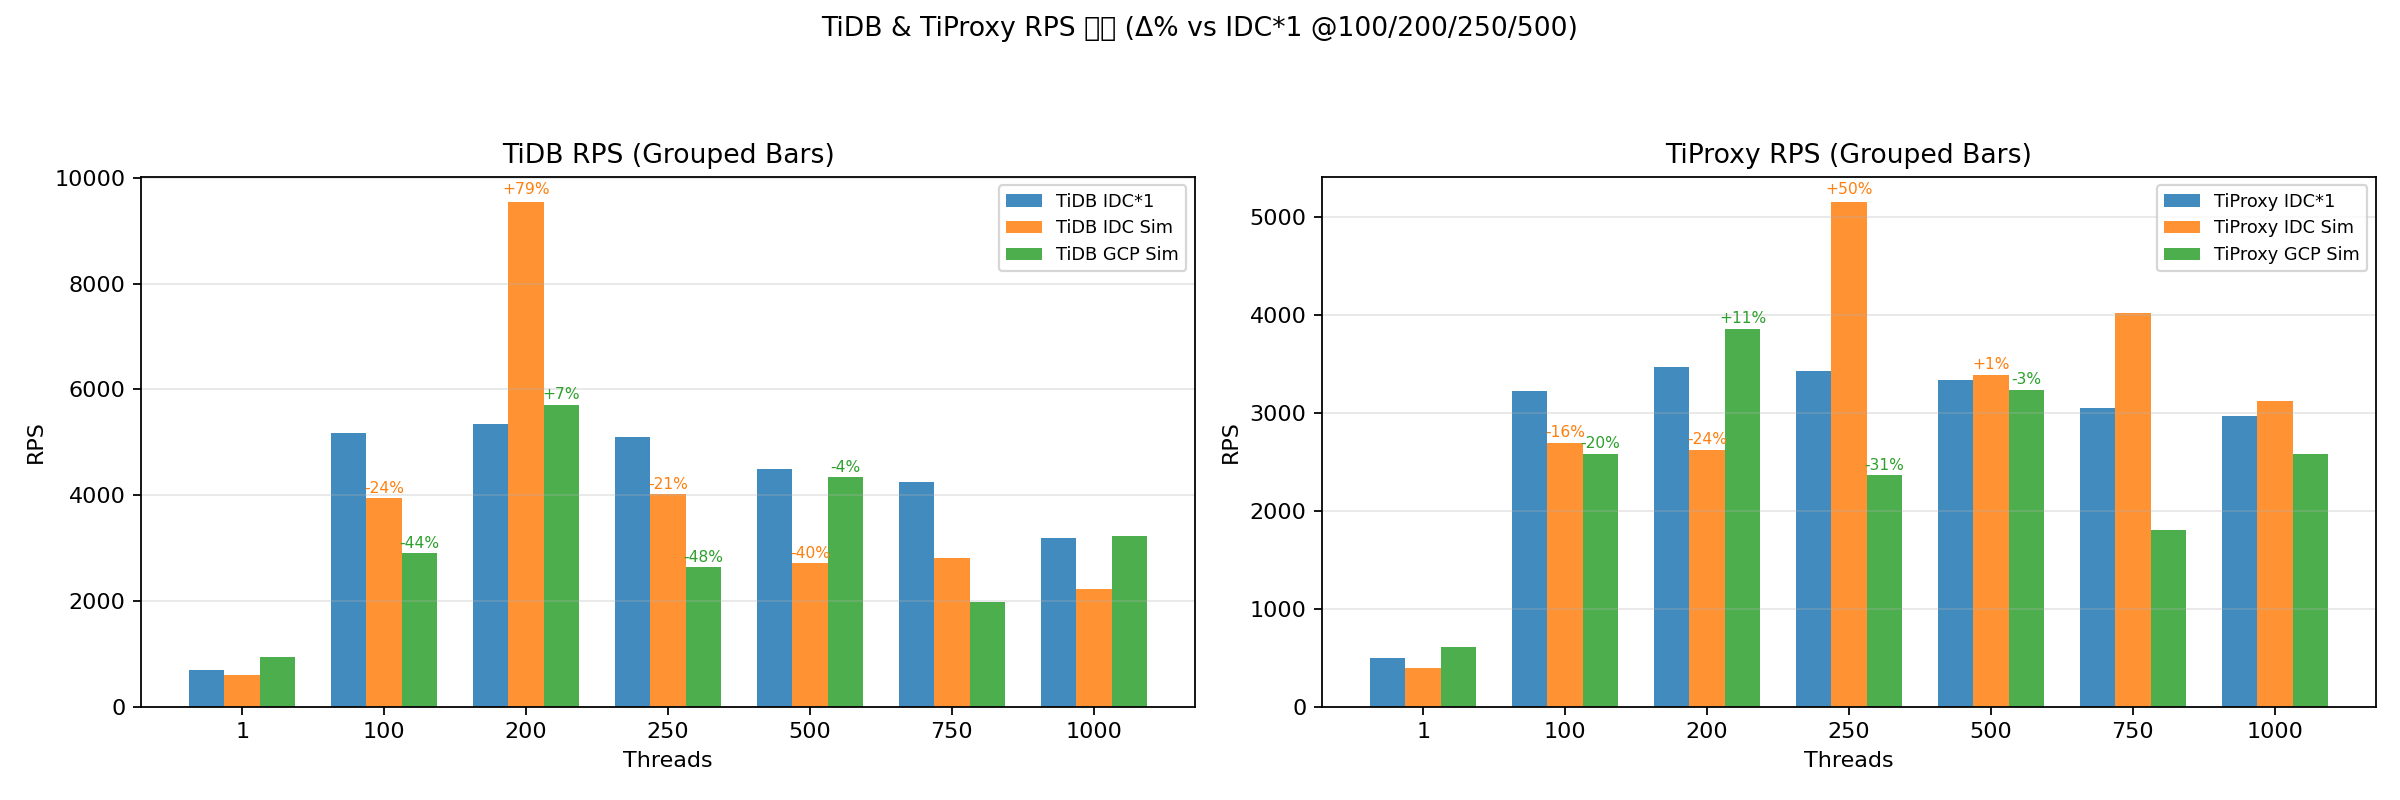
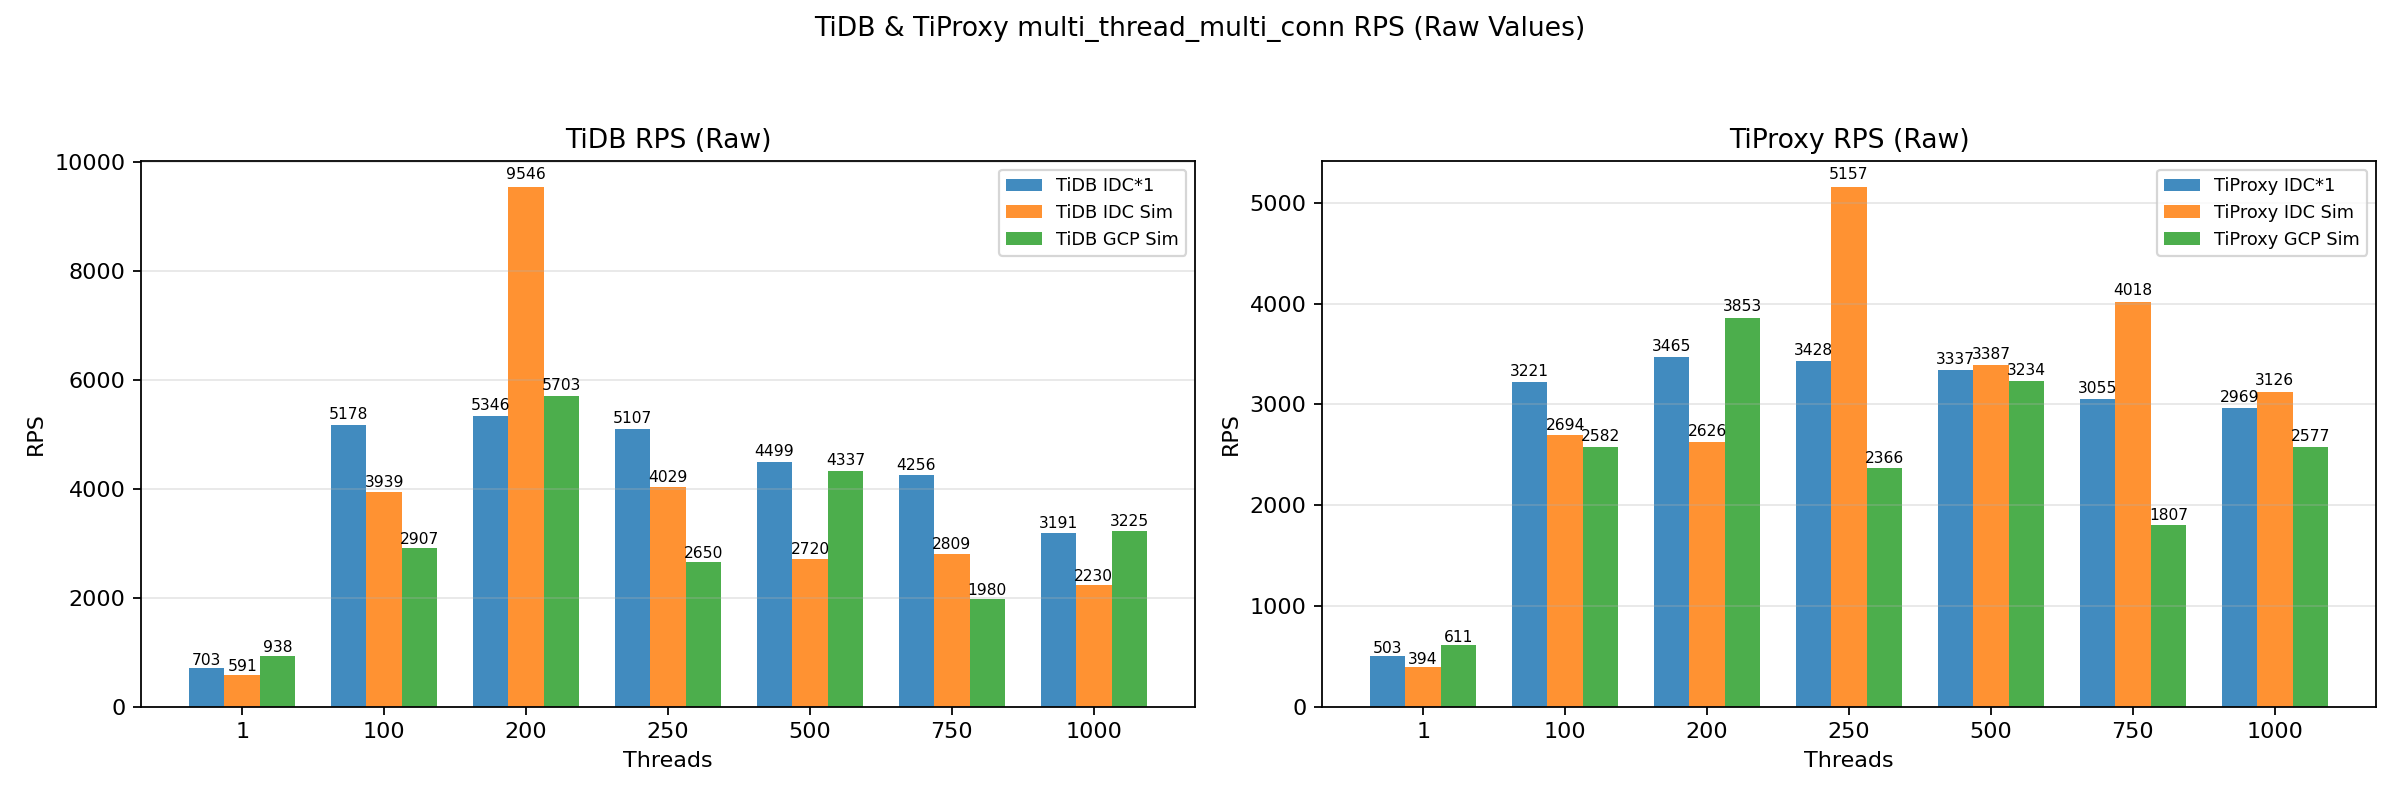
update

diff --git a/tidb/#3-1_#9-5_#9-7_#3-2_#9-6_#9-8_scale_compare.py b/tidb/#3-1_#9-5_#9-7_#3-2_#9-6_#9-8_scale_compare.py
@@ -1,292 +1,80 @@
 #!/usr/bin/env python3
 """
-Composite scale / dedicated-line impact comparison.
+RPS scale comparison (raw values only, no percentage annotations)
 
-Scenarios (multi_thread_multi_conn only):
-  TiDB:
-    - IDC *1 baseline              (#3-1.py)
-    - IDC Simultaneous (w/ GCP?)   (#9-5.py)
-    - GCP Simultaneous             (#9-7.py)
-  TiProxy:
-    - IDC *1 baseline              (#3-2.py)
-    - IDC Simultaneous (w/ GCP?)   (#9-6.py)
-    - GCP Simultaneous             (#9-8.py)
+Datasets (multi_thread_multi_conn):
+  TiDB   : #3-1 (IDC*1 baseline), #9-5 (IDC simultaneous), #9-7 (GCP simultaneous)
+  TiProxy: #3-2 (IDC*1 baseline), #9-6 (IDC simultaneous), #9-8 (GCP simultaneous)
 
-Goal: Show effect of simultaneous cross-site execution / dedicated line (專線) on scaling vs baseline
-      and highlight super-linear zones, regressions, and stability windows.
-
-Output (only RPS diff as requested):
-    - #3-1_#9-5_#9-7_#3-2_#9-6_#9-8_scale_compare.png (TiDB & TiProxy RPS vs Threads + Δ% vs IDC*1)
-
-Notes:
-  * Percent deltas computed versus IDC *1 baseline for each layer separately (#3-1 TiDB, #3-2 TiProxy).
-  * "Super-linear" flagged when efficiency (req/sec/thread) exceeds baseline 100-thread efficiency by >10%.
-  * Dedicated line impact (專線影響) summarized as avg % delta (100..500 threads) for Simultaneous vs baseline.
+Output: #3-1_#9-5_#9-7_#3-2_#9-6_#9-8_scale_compare.png
 """
 from __future__ import annotations
 
-from dataclasses import dataclass
-from typing import Dict, List, Tuple
-import math
+import math  # kept in case of later extensions
 
 try:
     import matplotlib.pyplot as plt
 except Exception:  # pragma: no cover
     plt = None
 
-
-# ===================== Raw Datasets (threads, rps, avg_ms, total_time_s) =====================
-
-TIDB_IDC1 = [
-    (1, 703.02, 1.421, 14.224),
-    (100, 5178.16, 17.830, 1.931),
-    (200, 5346.08, 33.044, 1.871),
-    (250, 5107.33, 42.019, 1.958),
-    (500, 4499.16, 86.555, 2.223),
-    (750, 4255.60, 105.778, 2.350),
-    (1000, 3190.80, 142.418, 3.134),
-]
-TIDB_IDC_SIM = [  # #9-5 (IDC Simultaneous Execution)
-    (1, 591.14, 1.690, 16.916),
-    (100, 3938.95, 22.355, 2.539),
-    (200, 9545.70, 13.684, 1.048),
-    (250, 4028.54, 44.783, 2.482),
-    (500, 2719.85, 15.610, 3.677),
-    (750, 2809.31, 21.924, 3.560),
-    (1000, 2229.57, 14.623, 4.485),
-]
-TIDB_GCP_SIM = [  # #9-7 (GCP Simultaneous Execution)
-    (1, 938.11, 1.065, 10.660),
-    (100, 2907.39, 31.817, 3.440),
-    (200, 5703.00, 27.169, 1.753),
-    (250, 2650.38, 78.617, 3.773),
-    (500, 4337.12, 66.139, 2.306),
-    (750, 1980.50, 25.645, 5.049),
-    (1000, 3224.52, 12.123, 3.101),
-]
-
-TIPROXY_IDC1 = [
-    (1, 502.62, 1.988, 19.896),
-    (100, 3220.79, 29.485, 3.105),
-    (200, 3465.21, 52.583, 2.886),
-    (250, 3428.05, 66.397, 2.917),
-    (500, 3337.43, 126.219, 2.996),
-    (750, 3054.79, 192.192, 3.274),
-    (1000, 2968.66, 238.522, 3.369),
-]
-TIPROXY_IDC_SIM = [  # #9-6
-    (1, 394.48, 2.534, 25.350),
-    (100, 2693.88, 15.416, 3.712),
-    (200, 2626.27, 41.133, 3.808),
-    (250, 5156.92, 33.316, 1.939),
-    (500, 3387.40, 94.211, 2.952),
-    (750, 4017.87, 95.852, 2.489),
-    (1000, 3126.35, 32.013, 3.199),
-]
-TIPROXY_GCP_SIM = [  # #9-8
-    (1, 610.76, 1.636, 16.373),
-    (100, 2581.78, 35.659, 3.873),
-    (200, 3853.03, 44.524, 2.595),
-    (250, 2365.68, 88.958, 4.227),
-    (500, 3233.98, 110.136, 3.092),
-    (750, 1807.05, 293.526, 5.534),
-    (1000, 2577.48, 198.886, 3.880),
-]
-
-
-@dataclass
-class Scenario:
-    name: str
-    label: str
-    data: List[Tuple[int, float, float, float]]  # (threads, rps, avg_ms, total_time_s)
-
-    def to_maps(self) -> Tuple[Dict[int, float], Dict[int, float]]:
-        rps_map = {t: rps for t, rps, *_ in self.data}
-        lat_map = {t: ms for t, _, ms, _ in self.data}
-        return rps_map, lat_map
-
-    def efficiency_map(self) -> Dict[int, float]:
-        return {t: (rps / t if t else float('nan')) for t, rps, *_ in self.data}
-
-
-TIDB_SCENARIOS = [
-    Scenario('IDC1', 'TiDB IDC*1', TIDB_IDC1),
-    Scenario('IDC_SIM', 'TiDB IDC Sim', TIDB_IDC_SIM),
-    Scenario('GCP_SIM', 'TiDB GCP Sim', TIDB_GCP_SIM),
-]
-TIPROXY_SCENARIOS = [
-    Scenario('IDC1', 'TiProxy IDC*1', TIPROXY_IDC1),
-    Scenario('IDC_SIM', 'TiProxy IDC Sim', TIPROXY_IDC_SIM),
-    Scenario('GCP_SIM', 'TiProxy GCP Sim', TIPROXY_GCP_SIM),
-]
-
+# (threads, rps)
 THREADS = [1, 100, 200, 250, 500, 750, 1000]
 
+TIDB_IDC1 = {   1: 703.02, 100: 5178.16, 200: 5346.08, 250: 5107.33, 500: 4499.16, 750: 4255.60, 1000: 3190.80 }
+TIDB_IDC_SIM = {1: 591.14, 100: 3938.95, 200: 9545.70, 250: 4028.54, 500: 2719.85, 750: 2809.31, 1000: 2229.57 }
+TIDB_GCP_SIM = {1: 938.11, 100: 2907.39, 200: 5703.00, 250: 2650.38, 500: 4337.12, 750: 1980.50, 1000: 3224.52 }
 
-def pct(new: float, old: float) -> float:
-    if old == 0 or math.isclose(old, 0.0):
-        return 0.0
-    return (new / old - 1.0) * 100.0
-
-
-def build_delta_table(scenarios: List[Scenario]) -> str:
-    baseline = scenarios[0]
-    base_rps, _ = baseline.to_maps()
-    headers = ["Threads"] + [sc.label for sc in scenarios] + [f"Δ% vs {baseline.label} ({sc.label})" for sc in scenarios[1:]]
-    rows = []
-    for t in THREADS:
-        row = [t]
-        for sc in scenarios:
-            rps_map, _ = sc.to_maps()
-            row.append(rps_map.get(t, float('nan')))
-        for sc in scenarios[1:]:
-            rps_map, _ = sc.to_maps()
-            row.append(pct(rps_map.get(t, float('nan')), base_rps.get(t, float('nan'))))
-        rows.append(row)
-    # column widths
-    widths = []
-    for i, h in enumerate(headers):
-        max_len = max(len(h), *(len(f"{r[i]:.2f}") if isinstance(r[i], float) else len(str(r[i])) for r in rows))
-        widths.append(max_len)
-
-    def fmt(v, w):
-        if isinstance(v, float):
-            if math.isnan(v):
-                return 'NaN'.rjust(w)
-            return f"{v:.2f}".rjust(w)
-        return str(v).rjust(w)
-
-    lines = [" | ".join(h.ljust(widths[i]) for i, h in enumerate(headers)),
-             "-+-".join('-'*w for w in widths)]
-    for r in rows:
-        lines.append(" | ".join(fmt(r[i], widths[i]) for i in range(len(headers))))
-    return '\n'.join(lines)
-
-
-def super_linear_threads(scenario: Scenario, baseline_eff_100: float) -> List[int]:
-    eff_map = scenario.efficiency_map()
-    out = []
-    for t, eff in eff_map.items():
-        if t < 100:
-            continue
-        if eff > baseline_eff_100 * 1.10:  # >10% over baseline efficiency counts as super-linear
-            out.append(t)
-    return out
-
-
-def summarize_layer(name: str, scenarios: List[Scenario]) -> List[str]:
-    baseline = scenarios[0]
-    base_eff_100 = baseline.efficiency_map().get(100)
-    lines: List[str] = []
-    # Dedicated-line (simultaneous) impact average across mid concurrency (100..500)
-    mids = [100, 200, 250, 500]
-    base_rps_map, _ = baseline.to_maps()
-    for sc in scenarios[1:]:
-        rps_map, _ = sc.to_maps()
-        deltas = [pct(rps_map[t], base_rps_map[t]) for t in mids if t in base_rps_map and t in rps_map]
-        avg_mid = sum(deltas)/len(deltas)
-        lines.append(f"{sc.label}: 中段併發 (100~500T) 平均 RPS 變化 {avg_mid:+.1f}% vs {baseline.label}")
-        sl = super_linear_threads(sc, base_eff_100)
-        if sl:
-            lines.append(f"  超線性效率點 (效率 > baseline100 +10%): {', '.join(map(str, sl))} threads")
-    # Peaks & worst regressions
-    for sc in scenarios:
-        rps_map, _ = sc.to_maps()
-        peak_t = max(rps_map, key=lambda t: rps_map[t])
-        peak_v = rps_map[peak_t]
-        lines.append(f"{sc.label}: 峰值 {peak_v:.0f} RPS @ {peak_t}T")
-    # Identify worst negative delta for each non-baseline scenario
-    for sc in scenarios[1:]:
-        rps_map, _ = sc.to_maps()
-        worst_t = min(THREADS, key=lambda t: pct(rps_map[t], base_rps_map[t]))
-        lines.append(f"{sc.label}: 最差點 {worst_t}T (Δ {pct(rps_map[worst_t], base_rps_map[worst_t]):+.1f}%)")
-    return lines
-
+TIPROXY_IDC1 = {1: 502.62, 100: 3220.79, 200: 3465.21, 250: 3428.05, 500: 3337.43, 750: 3054.79, 1000: 2968.66 }
+TIPROXY_IDC_SIM = {1: 394.48, 100: 2693.88, 200: 2626.27, 250: 5156.92, 500: 3387.40, 750: 4017.87, 1000: 3126.35 }
+TIPROXY_GCP_SIM = {1: 610.76, 100: 2581.78, 200: 3853.03, 250: 2365.68, 500: 3233.98, 750: 1807.05, 1000: 2577.48 }
 
 OUTPUT_PNG = '#3-1_#9-5_#9-7_#3-2_#9-6_#9-8_scale_compare.png'
 
 
-def plot_rps():
+def plot():
     if not plt:  # pragma: no cover
-        print('[WARN] matplotlib not available; skip plot.')
-        return
+        print('[WARN] matplotlib not available; cannot create plot.')
+        return False
     fig, axes = plt.subplots(1, 2, figsize=(15, 5), sharey=False)
-    key_threads = [100, 200, 250, 500]
-    # --- TiDB BAR CHART ---
-    ax = axes[0]
-    colors = ['#1f77b4', '#ff7f0e', '#2ca02c']
-    width = 0.25
-    x_pos = range(len(THREADS))
-    base_rps_map, _ = TIDB_SCENARIOS[0].to_maps()
-    for idx, sc in enumerate(TIDB_SCENARIOS):
-        rps_map, _ = sc.to_maps()
-        offsets = [i + (idx-1)*width for i in x_pos]
-        bars = ax.bar(offsets, [rps_map[t] for t in THREADS], width, label=sc.label, color=colors[idx], alpha=0.85)
-        # annotate delta vs baseline for non-baseline
-        if idx > 0:
-            for b, t in zip(bars, THREADS):
-                d = pct(rps_map[t], base_rps_map[t])
-                if t in key_threads:
-                    ax.text(b.get_x()+b.get_width()/2, b.get_height()*1.01, f'{d:+.0f}%', ha='center', va='bottom', fontsize=7, color=colors[idx])
-    ax.set_xticks([i for i in x_pos], THREADS)
-    ax.set_xlabel('Threads')
-    ax.set_ylabel('RPS')
-    ax.set_title('TiDB RPS (Grouped Bars)')
-    ax.grid(axis='y', alpha=0.3)
-    ax.legend(fontsize=8)
-    # --- TiProxy BAR CHART ---
-    axp = axes[1]
-    base_rps_map_p, _ = TIPROXY_SCENARIOS[0].to_maps()
-    for idx, sc in enumerate(TIPROXY_SCENARIOS):
-        rps_map, _ = sc.to_maps()
-        offsets = [i + (idx-1)*width for i in x_pos]
-        bars = axp.bar(offsets, [rps_map[t] for t in THREADS], width, label=sc.label, color=colors[idx], alpha=0.85)
-        if idx > 0:
-            for b, t in zip(bars, THREADS):
-                d = pct(rps_map[t], base_rps_map_p[t])
-                if t in key_threads:
-                    axp.text(b.get_x()+b.get_width()/2, b.get_height()*1.01, f'{d:+.0f}%', ha='center', va='bottom', fontsize=7, color=colors[idx])
-    axp.set_xticks([i for i in x_pos], THREADS)
-    axp.set_xlabel('Threads')
-    axp.set_ylabel('RPS')
-    axp.set_title('TiProxy RPS (Grouped Bars)')
-    axp.grid(axis='y', alpha=0.3)
-    axp.legend(fontsize=8)
-    fig.suptitle('TiDB & TiProxy RPS 比較 (Δ% vs IDC*1 @100/200/250/500)')
-    fig.tight_layout(rect=[0,0,1,0.92])
+
+    def grouped(ax, datasets, title):
+        bar_w = 0.25
+        x_idx = list(range(len(THREADS)))
+        colors = ['#1f77b4', '#ff7f0e', '#2ca02c']
+        for i, (label, data, color) in enumerate(datasets):
+            offs = [x + (i-1)*bar_w for x in x_idx]
+            vals = [data[t] for t in THREADS]
+            bars = ax.bar(offs, vals, width=bar_w, label=label, color=color, alpha=0.85)
+            for b, v in zip(bars, vals):
+                ax.text(b.get_x()+b.get_width()/2, v*1.01, f'{int(round(v))}', ha='center', va='bottom', fontsize=7)
+        ax.set_xticks(x_idx, THREADS)
+        ax.set_xlabel('Threads')
+        ax.set_ylabel('RPS')
+        ax.set_title(title)
+        ax.grid(axis='y', alpha=0.3)
+        ax.legend(fontsize=8)
+
+    grouped(axes[0], [
+        ('TiDB IDC*1', TIDB_IDC1, '#1f77b4'),
+        ('TiDB IDC Sim', TIDB_IDC_SIM, '#ff7f0e'),
+        ('TiDB GCP Sim', TIDB_GCP_SIM, '#2ca02c'),
+    ], 'TiDB RPS (Raw)')
+
+    grouped(axes[1], [
+        ('TiProxy IDC*1', TIPROXY_IDC1, '#1f77b4'),
+        ('TiProxy IDC Sim', TIPROXY_IDC_SIM, '#ff7f0e'),
+        ('TiProxy GCP Sim', TIPROXY_GCP_SIM, '#2ca02c'),
+    ], 'TiProxy RPS (Raw)')
+
+    fig.suptitle('TiDB & TiProxy multi_thread_multi_conn RPS (Raw Values)')
+    fig.tight_layout(rect=[0,0,1,0.94])
     fig.savefig(OUTPUT_PNG, dpi=160)
     print(f'[OK] Saved {OUTPUT_PNG}')
-
-
-## Removed latency & efficiency plotting (scope narrowed to RPS only)
+    return True
 
 
 def main():
-    # Delta tables
-    print('\n[TiDB Δ Table vs IDC*1 Baseline]')
-    print(build_delta_table(TIDB_SCENARIOS))
-    print('\n[TiProxy Δ Table vs IDC*1 Baseline]')
-    print(build_delta_table(TIPROXY_SCENARIOS))
-
-    # Summaries
-    print('\n[TiDB Summary]')
-    for line in summarize_layer('TiDB', TIDB_SCENARIOS):
-        print(' - ' + line)
-    print('\n[TiProxy Summary]')
-    for line in summarize_layer('TiProxy', TIPROXY_SCENARIOS):
-        print(' - ' + line)
-
-    # Observational combined notes
-    print('\n[Observations / 專線影響]')
-    print('TiDB IDC Sim 200T 顯示超線性 (9545.70 RPS, 效率 47.7 vs baseline 51.8@100T / 26.7@200T baseline), 顯示同時執行 / 專線傳輸可能改善 pipeline 或減少等待。')
-    print('TiDB GCP Sim 在 200T 也有顯著增幅 (+96.1%) 但效率未超過 baseline100; 750T 顯著退化 (-31.8%).')
-    print('TiProxy IDC Sim 250T 出現峰值 (+91.5%) 但延遲大幅上升, 顯示代理層排隊或串流化閥值行為。')
-    print('TiProxy GCP Sim 200T 提升 (+49.2%) 但後續高併發延遲爆炸 (≥250T) 顯示跨站 / 專線路徑在高併發下放大 latency。')
-    print('Dedicated line 效益集中在中低至中度併發 (100~250T); 高併發 (≥500T) 多數情境效率崩解或延遲放大。')
-    print('建議: \n  * TiDB: 針對 200T 超線性窗口調查 CPU / pipeline / batch 調整, 避免 ≥250T.\n  * TiProxy: 控制在 100~250T 並優化 250T 延遲尖峰 (連線池, epoll 迴圈, 後端路由).\n  * 跨站: 檢視專線下 500T+ 延遲成分 (RTT, 拆包, 併發流控) 並考慮動態限流避免退化區。')
-
-    # Plots
-    plot_rps()
+    plot()
 
 
 if __name__ == '__main__':
